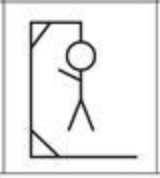
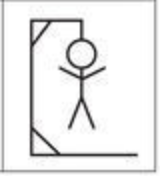
fixed issue of image changing out of order

diff --git a/assets/javascript/game.js b/assets/javascript/game.js
@@ -5,7 +5,7 @@ var games = ["Borderlands", "Kingdom Hearts", "Final Fantasy", "Call of Duty",
     "Beatsaber", "Smash Bros", "CS go", "League of Legends", "TFT", "World of Warcraft"];
 var pixar = ["Cars", "Toy Story", "Coco", "Monsters Inc", "Incredibles",
     "Inside-Out", "Finding Nemo", "Brave", "Up", "Ratatoulli"];
-var images = ["./assets/images/1.png", "./assets/images/2.png", "./assets/images/3.png", "./assets/images/3.png",
+var images = ["./assets/images/1.png", "./assets/images/2.png", "./assets/images/3.png",
     "./assets/images/4.png", "./assets/images/5.png", "./assets/images/6.png", "./assets/images/7.png",
     "./assets/images/8.png", "./assets/images/9.png", "./assets/images/10.png"]; //had to rush a bit
 var alphabet = ["a", "b", "c", "d", "e", "f", "g", "h", "i", "k", "l", "m", "n",
@@ -19,6 +19,7 @@ var arrGuess = document.querySelector('#guess');
 var wins = document.querySelector('.win');
 var lost = document.querySelector('.lost');
 var image = document.querySelector('.image');
+var remain = document.querySelector('#remaining');
 var key, lowerCaseElement, win = 0, lose = 0, again;
 
 function chooseRandom() {
@@ -34,7 +35,7 @@ function chooseRandom() {
 function game() {
     var category = chooseRandom();
     var element, elementHolder = [], lettersGuessed = [];
-    var done, key, round = 9, count = 0;
+    var done, key, round = 10, count = 0, remainingGuesses = 10;
     image.src = "./assets/images/0.png";
 
     wins.textContent = "Wins: " + win;
@@ -54,11 +55,11 @@ function game() {
         key = event.key;
 
         if (category === disney) {
-            choice.textContent = "I'm thinking of a Disney Movie";
+            choice.textContent = "I'm Thinking of a Disney Movie";
         } else if (category === games) {
-            choice.textContent = "I'm thinking of a popular Game";
+            choice.textContent = "I'm Thinking of a Popular Game";
         } else {
-            choice.textContent = "I'm thinking of a Pixar Movie";
+            choice.textContent = "I'm Thinking of a Pixar Movie";
         }
 
         if (lowerCaseElement.includes(key)) {
@@ -71,6 +72,8 @@ function game() {
             if (!lettersGuessed.includes(key) && alphabet.includes(key) && elementHolder.includes("_")) {
                 lettersGuessed.push(key);
                 image.src = images[count];
+                remainingGuesses--;
+                remain.textContent = "Remaining Guesses: " + remainingGuesses;
                 count++;
                 if (lettersGuessed.length >= round) {
                     choice.textContent = "Sorry! try again, press any key to play again";
@@ -95,7 +98,7 @@ function game() {
         }
 
         show.textContent = elementHolder.join(' ');
-        arrGuess.textContent = lettersGuessed.join(' ');
+        arrGuess.textContent = lettersGuessed.join('');
     };
 
 }

diff --git a/index.html b/index.html
@@ -11,15 +11,18 @@
 </head>
 
 <body id="body">
+    <header>
+        <h2 id="start">Press any key to Start</h2>
+    </header>
     <div class="gameCenter">
         <div class="imageBox">
             <img src="./assets/images/0.png" alt="origin" class="image">
         </div>
         <div class="box">
-            <h2 id="start">Press any key to Start</h2>
             <p id="cate"></p>
             <h2 id="wrong">Letters Guessed:
                 <p id="guess"></p>
+                <p id="remaining"></p>
             </h2>
             <h3 class="win"></h3>
             <h3 class="lost"></h3>

diff --git a/assets/css/style.css b/assets/css/style.css
@@ -2,13 +2,18 @@
     height: 200px;
     width: 100%;
 }
+
+header{
+    margin-top: 10px;
+    color: aliceblue;
+}
 .box {
     padding: 10px;
     float: left;
     color: aliceblue;
-    background-color: black;
+    background-color: rgb(36, 34, 34);
     height: 260px;
-    width: 250px;
+    width: 290px;
     margin-top: 10px;
 }
 body{
@@ -40,7 +45,7 @@ body{
 
 #start{
     text-align: center;
-    font-size: 30px;
+    font-size: 50px;
 }
 
 #cate, #wrong,
@@ -48,5 +53,5 @@ body{
 .lost{
     text-align: center;
     margin-top: 10px;
-    font-size: 20px;
+    font-size: 30px;
 }
